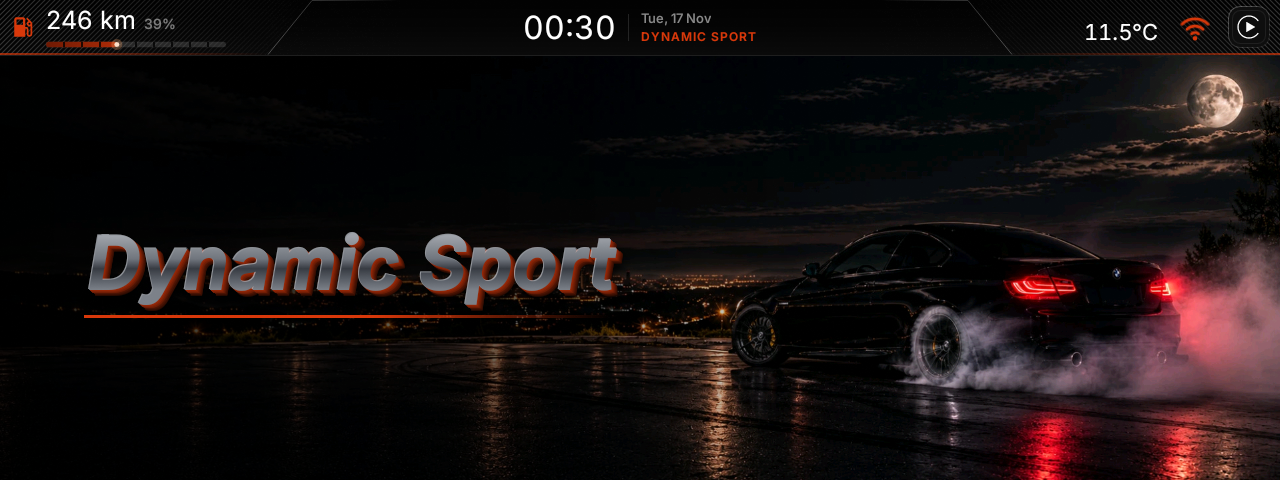
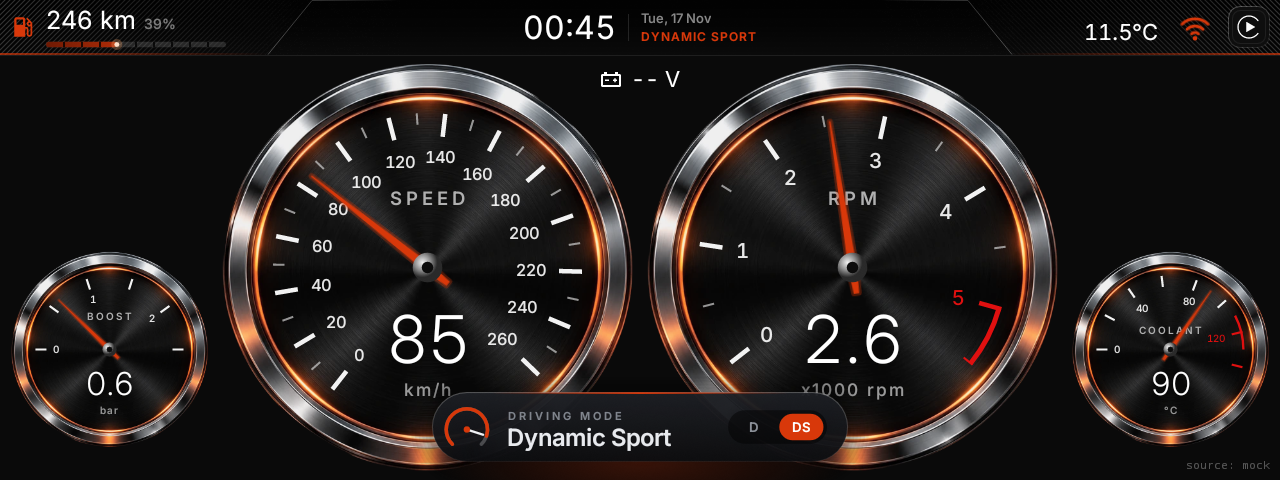
Drive Sport / Drive: compact glass card at the bottom center over the current screen (dial, mode name, sliding D/DS selector) instead of a full-screen scene; Drift and Normal keep the full scene

diff --git a/app/src/main/java/ro/e92/launcher/ui/screens/ModeScreen.kt b/app/src/main/java/ro/e92/launcher/ui/screens/ModeScreen.kt
@@ -10,6 +10,7 @@ import android.graphics.Matrix
 import android.graphics.Paint
 import android.graphics.PorterDuff
 import android.graphics.PorterDuffXfermode
+import android.graphics.RadialGradient
 import android.graphics.RectF
 import android.graphics.Shader
 import android.os.SystemClock
@@ -36,6 +37,15 @@ class ModeScreen(host: ScreenHost, private val scene: ModeScene) : Screen(host) 
     private var dismissed = false
 
     override fun onCreateView(inflater: LayoutInflater, container: ViewGroup): View {
+        // Drive Sport / Drive: doar un card jos pe mijloc, peste ecranul curent, care rămâne vizibil.
+        if (scene == ModeScene.SPORT || scene == ModeScene.DRIVE) {
+            return ModeCardView(context, scene == ModeScene.SPORT, context.getString(titleRes(scene))) { dismiss() }
+                .apply {
+                    layoutParams = ViewGroup.LayoutParams(
+                        ViewGroup.LayoutParams.MATCH_PARENT, ViewGroup.LayoutParams.MATCH_PARENT
+                    )
+                }
+        }
         val subtitle = when (scene) {
             ModeScene.DRIFT -> R.string.mode_traction_off
             ModeScene.NORMAL -> R.string.mode_traction_on
@@ -61,10 +71,12 @@ class ModeScreen(host: ScreenHost, private val scene: ModeScene) : Screen(host) 
 
     override fun onShow() {
         (root as? ModeBannerView)?.play()
+        (root as? ModeCardView)?.play()
     }
 
     override fun onHide() {
         (root as? ModeBannerView)?.stop()
+        (root as? ModeCardView)?.stop()
     }
 
     override fun focusTargets(): List<FocusTarget> = emptyList()
@@ -336,5 +348,284 @@ class ModeBannerView(
         private const val RIM_WIDTH = 0.0026f
         private const val SUB_GAP = 0.045f
         private const val LINE_PX = 3f
+    }
+}
+
+/**
+ * Cardul de mod de condus, ca la navigațiile noi: sticlă închisă jos pe mijloc, un cadran mic
+ * cu acul care urcă (DS) sau coboară (D), numele modului și selectorul D / DS cu bucata aprinsă
+ * care alunecă la modul nou. Ecranul de dedesubt rămâne vizibil și primește atingerile.
+ *
+ * Desenat pe ceasul propriu, cadru cu cadru, ca [ModeBannerView].
+ */
+class ModeCardView(
+    context: Context,
+    private val sport: Boolean,
+    private val title: String,
+    private val onDone: () -> Unit
+) : View(context) {
+
+    private val orange = ContextCompat.getColor(context, R.color.glow_core)
+    /** DS: portocaliul interfeței. D: gri-oțel rece, liniștit. */
+    private val accent = if (sport) orange else Color.rgb(170, 184, 199)
+
+    private val semibold = context.resources.getFont(R.font.inter_semibold)
+    private val cardPaint = Paint(Paint.ANTI_ALIAS_FLAG)
+    private val borderPaint = Paint(Paint.ANTI_ALIAS_FLAG).apply { style = Paint.Style.STROKE }
+    private val shadowPaint = Paint(Paint.ANTI_ALIAS_FLAG).apply { color = Color.BLACK }
+    private val glowPaint = Paint(Paint.ANTI_ALIAS_FLAG)
+    private val arcPaint = Paint(Paint.ANTI_ALIAS_FLAG).apply {
+        style = Paint.Style.STROKE
+        strokeCap = Paint.Cap.ROUND
+    }
+    private val needlePaint = Paint(Paint.ANTI_ALIAS_FLAG).apply { strokeCap = Paint.Cap.ROUND }
+    private val kickerPaint = Paint(Paint.ANTI_ALIAS_FLAG).apply {
+        typeface = semibold
+        letterSpacing = 0.3f
+        color = Color.rgb(128, 133, 141)
+    }
+    private val titlePaint = Paint(Paint.ANTI_ALIAS_FLAG).apply {
+        typeface = semibold
+        letterSpacing = 0.01f
+        color = Color.rgb(232, 234, 238)
+    }
+    private val segPaint = Paint(Paint.ANTI_ALIAS_FLAG)
+    private val segTextPaint = Paint(Paint.ANTI_ALIAS_FLAG).apply {
+        typeface = semibold
+        textAlign = Paint.Align.CENTER
+        letterSpacing = 0.06f
+    }
+    private val sweepPaint = Paint(Paint.ANTI_ALIAS_FLAG).apply {
+        xfermode = PorterDuffXfermode(PorterDuff.Mode.SRC_ATOP)
+    }
+    private val unitSweep = LinearGradient(
+        -1f, -0.5f, 1f, 0.5f,
+        intArrayOf(Color.TRANSPARENT, Color.argb(200, 255, 255, 255), Color.TRANSPARENT), null, Shader.TileMode.CLAMP
+    )
+    private val m = Matrix()
+    private val card = RectF()
+    private val r = RectF()
+    private val kicker = context.getString(R.string.mode_kicker).uppercase()
+
+    private var startedAt = 0L
+    private var running = false
+    private var finished = false
+
+    fun play() {
+        startedAt = SystemClock.uptimeMillis()
+        running = true
+        finished = false
+        invalidate()
+    }
+
+    fun stop() {
+        running = false
+    }
+
+    override fun onDraw(canvas: Canvas) {
+        val w = width.toFloat()
+        val h = height.toFloat()
+        if (w == 0f || h == 0f) return
+        val u = h / 480f
+        val now = if (startedAt == 0L) 0f else (SystemClock.uptimeMillis() - startedAt).toFloat()
+
+        val enter = ease(now, 0f, ENTER_MS)
+        val exit = ease(now, TOTAL_MS - EXIT_MS, EXIT_MS)
+        val alpha = enter * (1f - exit)
+        if (alpha <= 0f) return tick(now)
+
+        // ---- cardul: urcă din jos și se mărește puțin cât apare, coboară cât pleacă ----
+        val cw = CARD_W * u
+        val ch = CARD_H * u
+        val cx = w / 2f
+        val cy = h * CARD_Y + (1f - enter) * 26f * u + exit * 14f * u
+        val scale = 0.94f + 0.06f * enter
+        canvas.save()
+        canvas.scale(scale, scale, cx, cy)
+        card.set(cx - cw / 2f, cy - ch / 2f, cx + cw / 2f, cy + ch / 2f)
+        val rad = ch / 2f
+
+        // Umbra moale: câteva straturi din ce în ce mai largi (setShadowLayer pe forme nu merge
+        // cu accelerare hardware pe Android 8.1).
+        for (i in 1..6) {
+            shadowPaint.alpha = (16 * alpha).toInt()
+            val g = i * 4f * u
+            r.set(card.left - g, card.top - g + 6f * u, card.right + g, card.bottom + g + 6f * u)
+            canvas.drawRoundRect(r, rad + g, rad + g, shadowPaint)
+        }
+        // Halou slab în culoarea modului, sub card.
+        // Elipsă turtită: cercul se desenează întreg, iar scara pe verticală îl aplatizează.
+        val glowR = cw * 0.5f
+        glowPaint.shader = RadialGradient(
+            cx, card.bottom, glowR,
+            intArrayOf(withAlpha(accent, (60 * alpha).toInt()), Color.TRANSPARENT), null, Shader.TileMode.CLAMP
+        )
+        canvas.save()
+        canvas.scale(1f, 0.28f, cx, card.bottom)
+        canvas.drawCircle(cx, card.bottom, glowR, glowPaint)
+        canvas.restore()
+
+        cardPaint.shader = LinearGradient(
+            0f, card.top, 0f, card.bottom,
+            Color.argb((242 * alpha).toInt(), 30, 32, 37), Color.argb((242 * alpha).toInt(), 12, 13, 16),
+            Shader.TileMode.CLAMP
+        )
+        canvas.drawRoundRect(card, rad, rad, cardPaint)
+        borderPaint.strokeWidth = 1.2f * u
+        borderPaint.shader = LinearGradient(
+            0f, card.top, 0f, card.bottom,
+            Color.argb((70 * alpha).toInt(), 255, 255, 255), Color.argb((14 * alpha).toInt(), 255, 255, 255),
+            Shader.TileMode.CLAMP
+        )
+        canvas.drawRoundRect(card, rad, rad, borderPaint)
+
+        // Linia de lumină de pe muchia de sus, în culoarea modului, se întinde din centru.
+        val lineIn = ease(now, LINE_AT_MS, LINE_MS)
+        if (lineIn > 0f) {
+            val half = cw * 0.36f * lineIn
+            borderPaint.shader = LinearGradient(
+                cx - half, 0f, cx + half, 0f,
+                intArrayOf(Color.TRANSPARENT, withAlpha(accent, (255 * alpha).toInt()), Color.TRANSPARENT),
+                null, Shader.TileMode.CLAMP
+            )
+            borderPaint.strokeWidth = 2f * u
+            canvas.drawLine(cx - half, card.top + 0.6f * u, cx + half, card.top + 0.6f * u, borderPaint)
+        }
+
+        // ---- cadranul din stânga: arc gri, arc colorat până la ac, acul ----
+        val dialR = ch * 0.3f
+        val dcx = card.left + rad
+        val dcy = cy + dialR * 0.12f
+        r.set(dcx - dialR, dcy - dialR, dcx + dialR, dcy + dialR)
+        arcPaint.strokeWidth = 4f * u
+        arcPaint.color = Color.argb((60 * alpha).toInt(), 255, 255, 255)
+        canvas.drawArc(r, ARC_START, ARC_SWEEP, false, arcPaint)
+        val needleIn = ease(now, NEEDLE_AT_MS, NEEDLE_MS)
+        // DS: acul urcă de jos aproape de capăt; D: coboară de sus la o treime.
+        val from = if (sport) 0.18f else 0.9f
+        val to = if (sport) 0.9f else 0.32f
+        val level = from + (to - from) * needleIn
+        arcPaint.color = withAlpha(accent, (255 * alpha).toInt())
+        canvas.drawArc(r, ARC_START, ARC_SWEEP * level, false, arcPaint)
+        val ang = Math.toRadians((ARC_START + ARC_SWEEP * level).toDouble())
+        needlePaint.color = Color.argb((255 * alpha).toInt(), 240, 242, 245)
+        needlePaint.strokeWidth = 2.6f * u
+        canvas.drawLine(
+            dcx, dcy,
+            dcx + (dialR * 0.82f * Math.cos(ang)).toFloat(), dcy + (dialR * 0.82f * Math.sin(ang)).toFloat(),
+            needlePaint
+        )
+        needlePaint.color = withAlpha(accent, (255 * alpha).toInt())
+        canvas.drawCircle(dcx, dcy, 3.6f * u, needlePaint)
+
+        // ---- textul: rândul mic și numele modului ----
+        val tx = dcx + dialR + 22f * u
+        kickerPaint.textSize = 12.5f * u
+        kickerPaint.alpha = (255 * alpha).toInt()
+        titlePaint.textSize = 27f * u
+        val textIn = ease(now, TEXT_AT_MS, TEXT_MS)
+        val kickY = cy - 8f * u
+        val titleY = cy + 21f * u + (1f - textIn) * 8f * u
+        canvas.drawText(kicker, tx, kickY, kickerPaint)
+        val titleW = titlePaint.measureText(title)
+        val layer = canvas.saveLayer(tx - 4f, titleY - 34f * u, tx + titleW + 4f, titleY + 10f * u, null)
+        titlePaint.alpha = (255 * alpha * textIn).toInt()
+        canvas.drawText(title, tx, titleY, titlePaint)
+        val sweep = (now - SWEEP_AT_MS) / SWEEP_MS
+        if (sweep > 0f && sweep < 1f) {
+            val band = titleW * 0.3f
+            val sx = tx - band + (titleW + 2 * band) * sweep
+            m.setScale(band, 50f * u)
+            m.postTranslate(sx, titleY - 12f * u)
+            unitSweep.setLocalMatrix(m)
+            sweepPaint.shader = unitSweep
+            sweepPaint.alpha = (255 * alpha).toInt()
+            canvas.drawRect(tx - 4f, titleY - 34f * u, tx + titleW + 4f, titleY + 10f * u, sweepPaint)
+        }
+        canvas.restoreToCount(layer)
+
+        // ---- selectorul D / DS din dreapta, cu bucata aprinsă care alunecă la modul nou ----
+        val segW = 50f * u
+        val segH = 30f * u
+        val gap = 4f * u
+        val sx2 = card.right - rad * 0.7f - segW * 2 - gap
+        val sy = cy - segH / 2f
+        r.set(sx2 - 4f * u, sy - 4f * u, sx2 + segW * 2 + gap + 4f * u, sy + segH + 4f * u)
+        segPaint.color = Color.argb((120 * alpha).toInt(), 0, 0, 0)
+        canvas.drawRoundRect(r, r.height() / 2f, r.height() / 2f, segPaint)
+        val slide = ease(now, SLIDE_AT_MS, SLIDE_MS)
+        val fromX = if (sport) sx2 else sx2 + segW + gap
+        val toX = if (sport) sx2 + segW + gap else sx2
+        val px = fromX + (toX - fromX) * slide
+        r.set(px, sy, px + segW, sy + segH)
+        segPaint.color = withAlpha(accent, (255 * alpha).toInt())
+        canvas.drawRoundRect(r, segH / 2f, segH / 2f, segPaint)
+        segTextPaint.textSize = 15f * u
+        val baseY = sy + segH / 2f + segTextPaint.textSize * 0.36f
+        drawSeg(canvas, "D", sx2 + segW / 2f, baseY, !sport, slide, alpha)
+        drawSeg(canvas, "DS", sx2 + segW * 1.5f + gap, baseY, sport, slide, alpha)
+
+        canvas.restore()
+        tick(now)
+    }
+
+    /** Textul bucății: deschis pe culoarea aprinsă, gri pe fundal; trece de la una la alta cu glisarea. */
+    private fun drawSeg(canvas: Canvas, label: String, x: Float, y: Float, target: Boolean, slide: Float, alpha: Float) {
+        val lit = if (target) slide else 1f - slide
+        val onLit = if (sport) Color.WHITE else Color.rgb(16, 18, 22)
+        val idle = Color.rgb(140, 145, 153)
+        segTextPaint.color = blend(idle, onLit, lit)
+        segTextPaint.alpha = (255 * alpha).toInt()
+        canvas.drawText(label, x, y, segTextPaint)
+    }
+
+    private fun tick(now: Float) {
+        if (!running) return
+        if (now >= TOTAL_MS) {
+            if (!finished) {
+                finished = true
+                running = false
+                post(onDone)
+            }
+        } else {
+            postInvalidateOnAnimation()
+        }
+    }
+
+    private fun withAlpha(color: Int, a: Int) =
+        Color.argb(a.coerceIn(0, 255), Color.red(color), Color.green(color), Color.blue(color))
+
+    private fun blend(a: Int, b: Int, t: Float) = Color.rgb(
+        (Color.red(a) + (Color.red(b) - Color.red(a)) * t).toInt(),
+        (Color.green(a) + (Color.green(b) - Color.green(a)) * t).toInt(),
+        (Color.blue(a) + (Color.blue(b) - Color.blue(a)) * t).toInt()
+    )
+
+    private fun ease(now: Float, from: Float, length: Float): Float {
+        val t = ((now - from) / length).coerceIn(0f, 1f)
+        return 1f - (1f - t) * (1f - t) * (1f - t)
+    }
+
+    private companion object {
+        const val TOTAL_MS = ModeBannerView.TOTAL_MS
+        const val ENTER_MS = 380f
+        const val EXIT_MS = 320f
+        const val LINE_AT_MS = 220f
+        const val LINE_MS = 520f
+        const val NEEDLE_AT_MS = 260f
+        const val NEEDLE_MS = 700f
+        const val TEXT_AT_MS = 140f
+        const val TEXT_MS = 380f
+        const val SLIDE_AT_MS = 380f
+        const val SLIDE_MS = 420f
+        const val SWEEP_AT_MS = 650f
+        const val SWEEP_MS = 850f
+
+        const val CARD_W = 470f
+        const val CARD_H = 78f
+        /** Centrul cardului, ca parte din înălțimea ecranului: mijloc spre jos. */
+        const val CARD_Y = 0.875f
+        const val ARC_START = 135f
+        const val ARC_SWEEP = 270f
     }
 }
